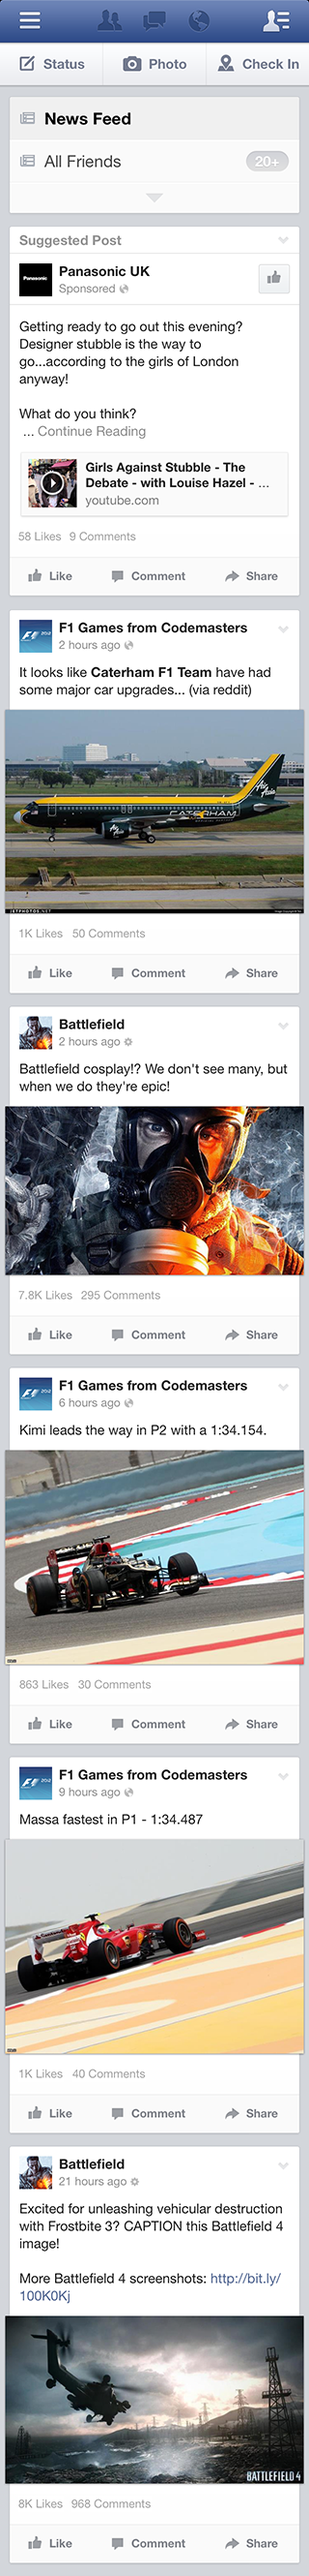
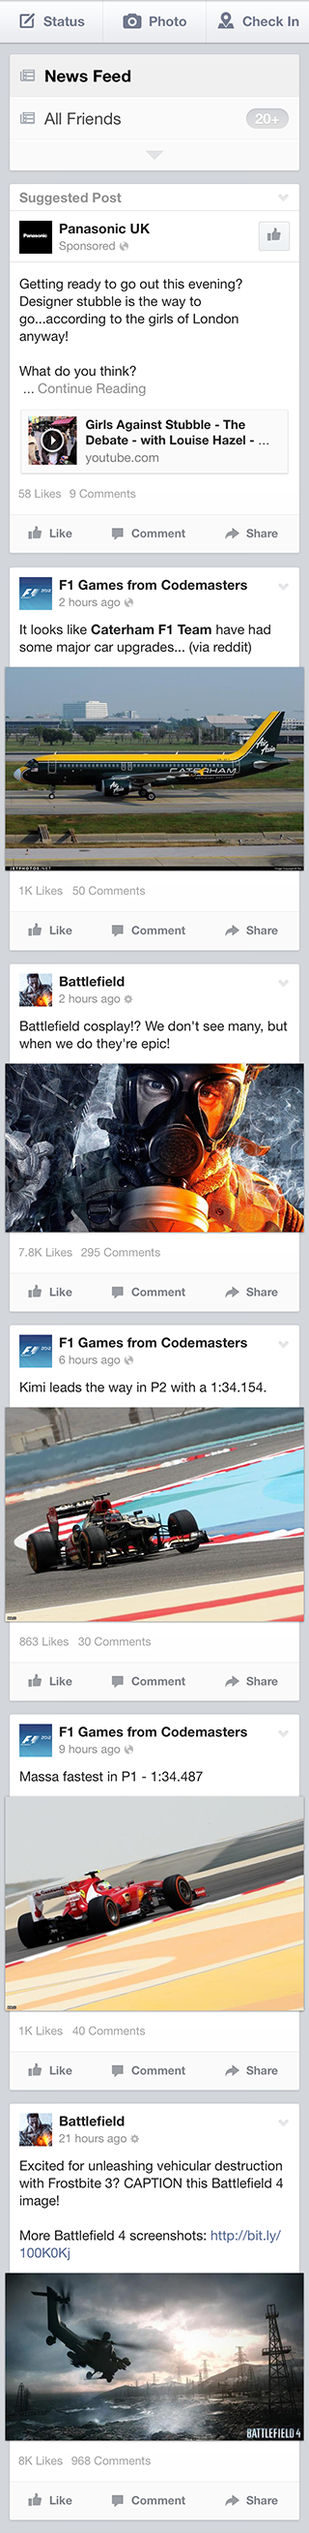
Fixing basic layout

diff --git a/Samples/Facebook/css/facebook.css b/Samples/Facebook/css/facebook.css
@@ -2,41 +2,75 @@
 	Facebook Sidebar Sample Interactive Animation
 	@WillsB3
 */
-@media -sass-debug-info{filename{font-family:file\:\/\/\/Users\/Wills\/Sites\/Projects\/Personal\/Interactive\%20CSS\%20Animations\/Samples\/Facebook\/scss\/facebook\.scss}line{font-family:\0000312}}
+@media -sass-debug-info{filename{font-family:file\:\/\/\/Users\/Wills\/Sites\/Projects\/Personal\/Interactive\%20CSS\%20Animations\/Samples\/Facebook\/scss\/facebook\.scss}line{font-family:\0000313}}
 html, body {
-  min-height: 100%; }
+  background-color: #d2d5da;
+  height: 100%;
+  min-height: 100%;
+  overflow: hidden; }
 
-@media -sass-debug-info{filename{font-family:file\:\/\/\/Users\/Wills\/Sites\/Projects\/Personal\/Interactive\%20CSS\%20Animations\/Samples\/Facebook\/scss\/facebook\.scss}line{font-family:\0000316}}
+@media -sass-debug-info{filename{font-family:file\:\/\/\/Users\/Wills\/Sites\/Projects\/Personal\/Interactive\%20CSS\%20Animations\/Samples\/Facebook\/scss\/facebook\.scss}line{font-family:\0000320}}
 .viewport {
+  height: 100%;
   min-height: 100%;
   overflow: hidden;
   position: relative;
   width: 320px; }
 
-@media -sass-debug-info{filename{font-family:file\:\/\/\/Users\/Wills\/Sites\/Projects\/Personal\/Interactive\%20CSS\%20Animations\/Samples\/Facebook\/scss\/facebook\.scss}line{font-family:\0000323}}
+@media -sass-debug-info{filename{font-family:file\:\/\/\/Users\/Wills\/Sites\/Projects\/Personal\/Interactive\%20CSS\%20Animations\/Samples\/Facebook\/scss\/facebook\.scss}line{font-family:\0000328}}
 .app {
+  height: 100%;
   margin: 0 auto;
   overflow: hidden;
   position: relative;
   width: 320px; }
 
-@media -sass-debug-info{filename{font-family:file\:\/\/\/Users\/Wills\/Sites\/Projects\/Personal\/Interactive\%20CSS\%20Animations\/Samples\/Facebook\/scss\/facebook\.scss}line{font-family:\0000333}}
+@media -sass-debug-info{filename{font-family:file\:\/\/\/Users\/Wills\/Sites\/Projects\/Personal\/Interactive\%20CSS\%20Animations\/Samples\/Facebook\/scss\/facebook\.scss}line{font-family:\0000337}}
 .news-feed,
 .sidebar {
   background-repeat: no-repeat;
   width: 100%; }
 
-@media -sass-debug-info{filename{font-family:file\:\/\/\/Users\/Wills\/Sites\/Projects\/Personal\/Interactive\%20CSS\%20Animations\/Samples\/Facebook\/scss\/facebook\.scss}line{font-family:\0000338}}
-.news-feed {
-  background-image: url("../img/NewsFeed.png");
-  height: 2660px; }
+@media -sass-debug-info{filename{font-family:file\:\/\/\/Users\/Wills\/Sites\/Projects\/Personal\/Interactive\%20CSS\%20Animations\/Samples\/Facebook\/scss\/facebook\.scss}line{font-family:\0000342}}
+.top-bar {
+  background-image: url("../img/TopBar.png");
+  height: 44px;
+  left: 0;
+  position: absolute;
+  top: 0;
+  width: 100%;
+  z-index: 10; }
   @media only screen and (-webkit-min-device-pixel-ratio: 1.3), only screen and (min--moz-device-pixel-ratio: 1.3), only screen and (-o-min-device-pixel-ratio: 1.3 / 1), only screen and (min-resolution: 125dpi), only screen and (min-resolution: 1.3dppx) {
-@media -sass-debug-info{filename{font-family:file\:\/\/\/Users\/Wills\/Sites\/Projects\/Personal\/Interactive\%20CSS\%20Animations\/Samples\/Facebook\/scss\/facebook\.scss}line{font-family:\0000338}}
-    .news-feed {
-      background-image: url("../img/NewsFeed_2x.png");
-      background-size: 320px 2660px; } }
+@media -sass-debug-info{filename{font-family:file\:\/\/\/Users\/Wills\/Sites\/Projects\/Personal\/Interactive\%20CSS\%20Animations\/Samples\/Facebook\/scss\/facebook\.scss}line{font-family:\0000342}}
+    .top-bar {
+      background-image: url("../img/TopBar_2x.png");
+      background-size: 320px 44px; } }
 
-@media -sass-debug-info{filename{font-family:file\:\/\/\/Users\/Wills\/Sites\/Projects\/Personal\/Interactive\%20CSS\%20Animations\/Samples\/Facebook\/scss\/facebook\.scss}line{font-family:\0000344}}
+@media -sass-debug-info{filename{font-family:file\:\/\/\/Users\/Wills\/Sites\/Projects\/Personal\/Interactive\%20CSS\%20Animations\/Samples\/Facebook\/scss\/facebook\.scss}line{font-family:\0000352}}
+.news-feed {
+  padding-top: 44px;
+  position: relative; }
+@media -sass-debug-info{filename{font-family:file\:\/\/\/Users\/Wills\/Sites\/Projects\/Personal\/Interactive\%20CSS\%20Animations\/Samples\/Facebook\/scss\/facebook\.scss}line{font-family:\0000357}}
+  .news-feed .content-wrapper {
+    -webkit-overflow-scrolling: touch;
+    height: 504px;
+    overflow-y: auto;
+    position: relative;
+    z-index: 9; }
+@media -sass-debug-info{filename{font-family:file\:\/\/\/Users\/Wills\/Sites\/Projects\/Personal\/Interactive\%20CSS\%20Animations\/Samples\/Facebook\/scss\/facebook\.scss}line{font-family:\0000366}}
+  .news-feed .content {
+    background-image: url("../img/NewsFeed.jpg");
+    background-position: 0 0;
+    background-repeat: no-repeat;
+    height: 2616px;
+    padding-bottom: 44px; }
+    @media only screen and (-webkit-min-device-pixel-ratio: 1.3), only screen and (min--moz-device-pixel-ratio: 1.3), only screen and (-o-min-device-pixel-ratio: 1.3 / 1), only screen and (min-resolution: 125dpi), only screen and (min-resolution: 1.3dppx) {
+@media -sass-debug-info{filename{font-family:file\:\/\/\/Users\/Wills\/Sites\/Projects\/Personal\/Interactive\%20CSS\%20Animations\/Samples\/Facebook\/scss\/facebook\.scss}line{font-family:\0000366}}
+      .news-feed .content {
+        background-image: url("../img/NewsFeed_2x.jpg");
+        background-size: 320px 2616px; } }
+
+@media -sass-debug-info{filename{font-family:file\:\/\/\/Users\/Wills\/Sites\/Projects\/Personal\/Interactive\%20CSS\%20Animations\/Samples\/Facebook\/scss\/facebook\.scss}line{font-family:\0000376}}
 .sidebar {
   background-image: url("../img/Sidebar.png");
   height: 1404px;
@@ -44,7 +78,7 @@ html, body {
   position: absolute;
   top: 20px; }
   @media only screen and (-webkit-min-device-pixel-ratio: 1.3), only screen and (min--moz-device-pixel-ratio: 1.3), only screen and (-o-min-device-pixel-ratio: 1.3 / 1), only screen and (min-resolution: 125dpi), only screen and (min-resolution: 1.3dppx) {
-@media -sass-debug-info{filename{font-family:file\:\/\/\/Users\/Wills\/Sites\/Projects\/Personal\/Interactive\%20CSS\%20Animations\/Samples\/Facebook\/scss\/facebook\.scss}line{font-family:\0000344}}
+@media -sass-debug-info{filename{font-family:file\:\/\/\/Users\/Wills\/Sites\/Projects\/Personal\/Interactive\%20CSS\%20Animations\/Samples\/Facebook\/scss\/facebook\.scss}line{font-family:\0000376}}
     .sidebar {
       background-image: url("../img/Sidebar_2x.png");
       background-size: 320px 1404px; } }

diff --git a/Samples/Facebook/scss/facebook.scss b/Samples/Facebook/scss/facebook.scss
@@ -8,12 +8,17 @@
 $deviceHeight: 568px;
 $deviceWidth: 320px;
 $statusBarHeight: 20px;
+$topBarHeight: 44px;
 
 html, body {
+	background-color: #d2d5da;
+	height: 100%;
 	min-height: 100%;
+	overflow: hidden;
 }
 
 .viewport {
+	height: 100%;
 	min-height: 100%;
 	overflow: hidden;
 	position: relative;
@@ -21,10 +26,9 @@ html, body {
 }
 
 .app {
-	// -webkit-overflow-scrolling: touch;
+	height: 100%;
 	margin: 0 auto;
 	overflow: hidden;
-	// overflow-y: scroll;
 	position: relative;
 	width: $deviceWidth;
 }
@@ -35,10 +39,38 @@ html, body {
 	width: 100%;
 }
 
+.top-bar {
+	@include retina-image("../img/TopBar", 320px $topBarHeight, png, "../img/TopBar_2x");
+	height: $topBarHeight;
+	left: 0;
+	position: absolute;
+	top: 0;
+	width: 100%;
+	z-index: 10;
+}
+
 .news-feed {
-	$height: 2660px;
-	@include retina-image("../img/NewsFeed", 320px $height, png, "../img/NewsFeed_2x");
-	height: $height;
+	$newsFeedImageHeight: 2616px;
+	padding-top: $topBarHeight;
+	position: relative;
+
+	.content-wrapper {
+		-webkit-overflow-scrolling: touch;
+
+		height: $deviceHeight - $statusBarHeight - $topBarHeight;
+		overflow-y: auto;
+		position: relative;
+		z-index: 9;
+	}
+
+	.content {
+		@include retina-image("../img/NewsFeed", 320px $newsFeedImageHeight, jpg, "../img/NewsFeed_2x");
+		background-position: 0 0;
+		background-repeat: no-repeat;
+		height: $newsFeedImageHeight;
+
+		padding-bottom: 44px;
+	}
 }
 
 .sidebar {

diff --git a/Samples/Facebook/index.html b/Samples/Facebook/index.html
@@ -16,15 +16,20 @@
 	<body>
 		<div class="viewport">
 			<div class="app">
-				<div class="news-feed"></div>
+				<div class="news-feed">
+					<div class="top-bar"></div>
+					<div class="content-wrapper scroll-root">
+						<div class="content"></div>
+					</div>
+				</div>
 				<div class="sidebar"></div>
 			</div>
 		</div>
 
 		<!-- JS -->
-		<script src="//ajax.googleapis.com/ajax/libs/jquery/1.9.1/jquery.min.js"></script>
-		<script>window.jQuery || document.write('<script src="js/vendor/jquery-1.9.1.min.js"><\/script>')</script>
+		<script>window.jQuery || document.write('<script src="js/vendor/jquery-2.0.0.min.js"><\/script>')</script>
 
+		<script src="js/vendor/prevent-overscroll.js"></script>
 		<script src="js/main.js"></script>
 	</body>
 </html>

diff --git a/Samples/Facebook/js/main.js b/Samples/Facebook/js/main.js
@@ -1,1 +1,8 @@
-/**/
+$(document).ready(function() {
+	preventOverScroll(document.querySelector('.scroll-root'));
+
+	// Set correct height on the content pane
+	$('.content-wrapper').css({
+		height: $(window).height()
+	});
+});
